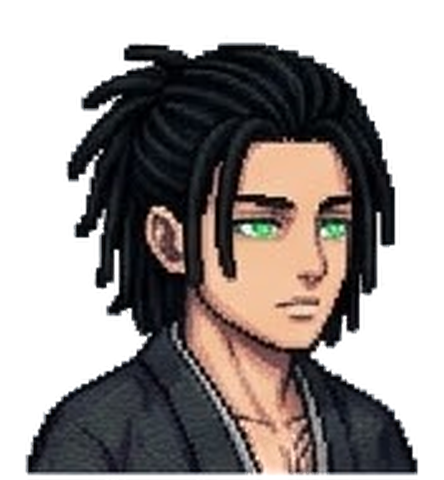
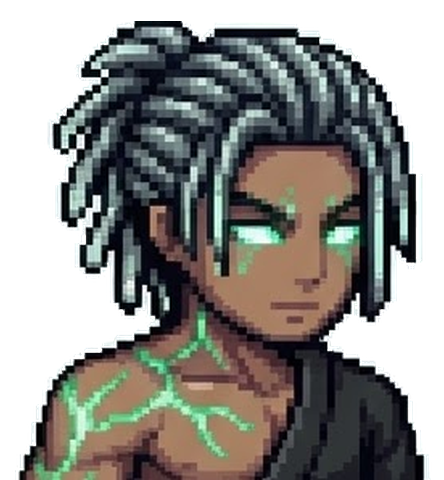
Emerald Ascension transformed form (power-up, battle moves, revert) + comic-page cutscene for the first transformation; ascended portrait
Claude-Session: https://claude.ai/code/session_01Y9XB2BHqdWdEP8tdmCfuZX

diff --git a/emerald-blood/js/hdsprites.js b/emerald-blood/js/hdsprites.js
@@ -14,7 +14,7 @@ const HD = {
   /* the art sheets load after the title screen is up (small WebP files; PNG if the phone can't read WebP) */
   lateLoad() {
     this.wantImgs = 1; const m = this.meta; if (!m || this.started) return; this.started = 1;
-    const order = ['ren', 'hood', 'npcs', 'kairo', 'veil', ...Object.keys(m).filter(k => /^c_/.test(k))].filter(k => m[k] && m[k].img);
+    const first = ['ren', 'hood', 'npcs', 'kairo', 'veil'], order = [...first, ...Object.keys(m).filter(k => !first.includes(k))].filter(k => m[k] && m[k].img);
     for (const k of order) { const base = `assets/hd/${m[k].img.replace(/\.png$/, '')}`;
       loadImg(`${base}.webp?v=${m.v}`).catch(() => loadImg(`${base}.png?v=${m.v}`)).then(i => { this.img[k] = i; }).catch(() => {}); }
   },
@@ -256,5 +256,71 @@ HD.load();
     try { for (const e of this.ents) { if (e.isPlayer || /^folk_/.test(String(e.id))) continue; const id = artId(e.id); if (Art.port[id]) Art.prefetch(id, ['neutral', 'happy', 'anger']); }
       Art.prefetch(styled(G.S && G.S.hood && Art.port.ren_hood ? 'ren_hood' : 'ren')); } catch (e) { }
     return r;
+  };
+})();
+
+/* Emerald Ascension: while it lasts Ren fights in his transformed form (silver dreads, teal aura).
+   Going in plays the power-up (gathering light → burst → aura); coming out plays the fade and the exhausted breath. */
+(function () {
+  const _pi = playerImg;
+  playerImg = function () {
+    const B = Battle.B, base = _pi();
+    if (G.mode !== 'battle' || !B || G.S.kid || !HD.on() || !HD.img.asc) return base;
+    const me = B.actors.find(a => a.isMe); if (!me) return base;
+    const on = (me.sight || 0) > 0, was = !!B.__ascOn, now = performance.now();
+    if (on !== was) { B.__ascOn = on; HD.act = on ? { name: 'transform', t0: now, end: now + 1400 } : { name: 'revert', t0: now, end: now + 1100 }; HD.__actSet = 'asc'; }
+    const useAsc = on || (HD.act && HD.act.name === 'revert' && now < HD.act.end);
+    if (!useAsc) return base;
+    const im = HD.sheet('asc', !!(base && base.__hd && base.__hd.faces !== 'right'));   // face the same way as his normal sheet
+    im.__hd.me = 1; return im;
+  };
+})();
+
+/* ---------- comic cutscenes: your manga page, shown one panel at a time (tap to go on) ---------- */
+const Comic = {
+  PAGES: {
+    // panel rectangles on the 1200x896 page: kneeling → the eyes → eruption → awakened → untouchable → the cut → the form holds
+    asc: { src: 'assets/cutscenes/comic_asc.webp', panels: [[0, 0, 600, 316], [602, 0, 1200, 316], [0, 318, 505, 642], [480, 318, 1200, 642], [0, 644, 436, 896], [440, 644, 896, 896], [900, 644, 1200, 896]],
+      fx: ['rain', 'flash', 'shake', 'glow', null, 'flash', 'glow'] }
+  },
+  async play(id) {
+    const P = this.PAGES[id]; if (!P) return;
+    const img = await loadImg(P.src + '?v=1').catch(() => null); if (!img) return;
+    const ov = document.createElement('div'); ov.style.cssText = 'position:fixed;inset:0;z-index:80;background:#05080a;touch-action:none';
+    const cv = document.createElement('canvas'), skip = document.createElement('button');
+    cv.style.cssText = 'width:100%;height:100%;display:block'; skip.textContent = 'Skip ▶▶';
+    skip.style.cssText = 'position:absolute;top:12px;right:12px;padding:8px 14px;border-radius:10px;border:2px solid #2f9a5a;background:#0b1a12;color:#cfe;font:600 14px system-ui';
+    ov.append(cv, skip); document.body.append(ov);
+    const dpr = Math.min(devicePixelRatio || 1, 2), W = cv.width = innerWidth * dpr, H = cv.height = innerHeight * dpr, x = cv.getContext('2d');
+    let i = 0, t0 = performance.now(), done = false, next = null;
+    const go = () => { if (done) return; i++; t0 = performance.now(); if (i >= P.panels.length) finish(); };
+    const finish = () => { if (done) return; done = true; ov.remove(); next && next(); };
+    ov.addEventListener('pointerdown', e => { if (e.target === skip) { finish(); return; } if (performance.now() - t0 > 350) go(); });
+    const draw = now => {
+      if (done) return;
+      const [sx, sy, ex, ey] = P.panels[i], pw = ex - sx, ph = ey - sy, k = Math.min((now - t0) / 600, 1), ease = 1 - Math.pow(1 - k, 3);
+      const fit = Math.min(W * .94 / pw, H * .9 / ph) * (1 + .04 * ((now - t0) / 4000)), dw = pw * fit, dh = ph * fit;
+      let ox = (W - dw) / 2, oy = (H - dh) / 2; const fx = P.fx[i];
+      if (fx === 'shake' && now - t0 < 900) { ox += (Math.random() - .5) * 14 * dpr; oy += (Math.random() - .5) * 10 * dpr; }
+      x.fillStyle = '#05080a'; x.fillRect(0, 0, W, H);
+      x.globalAlpha = ease; x.imageSmoothingEnabled = true; x.drawImage(img, sx, sy, pw, ph, ox, oy + (1 - ease) * 18 * dpr, dw, dh); x.globalAlpha = 1;
+      x.strokeStyle = '#e8f4ee'; x.lineWidth = 3 * dpr; x.strokeRect(ox, oy + (1 - ease) * 18 * dpr, dw, dh);
+      if (fx === 'flash' && now - t0 < 260) { x.fillStyle = `rgba(200,255,235,${.8 * (1 - (now - t0) / 260)})`; x.fillRect(0, 0, W, H); }
+      if (fx === 'glow') { const a = .12 + .08 * Math.sin(now / 300); x.fillStyle = `rgba(70,255,190,${a})`; x.globalCompositeOperation = 'lighter'; x.fillRect(ox, oy, dw, dh); x.globalCompositeOperation = 'source-over'; }
+      if (fx === 'rain') { x.strokeStyle = 'rgba(200,220,240,.25)'; x.lineWidth = 1 * dpr; for (let r = 0; r < 60; r++) { const rx = ((r * 97 + now * .6) % dw) + ox, ry = ((r * 53 + now * 1.4) % dh) + oy; x.beginPath(); x.moveTo(rx, ry); x.lineTo(rx - 3 * dpr, ry + 12 * dpr); x.stroke(); } }
+      if (now - t0 > 2600) go();
+      requestAnimationFrame(draw);
+    };
+    try { sfx(id === 'asc' ? 'art' : 'swing'); } catch (e) { }
+    requestAnimationFrame(draw);
+    return new Promise(r => { next = r; });
+  }
+};
+(function () {
+  const _ua = Battle.useArt.bind(Battle);
+  Battle.useArt = async function (a, k) {
+    // the first transformation plays the full page; after that it is just the power-up on the battlefield
+    if (k === 'sight' && a && a.isMe && G.S && !G.S.kid && !G.S.f.comicAsc) { G.S.f.comicAsc = 1; try { await Comic.play('asc'); } catch (e) { } }
+    return _ua(a, k);
   };
 })();

diff --git a/emerald-blood/index.html b/emerald-blood/index.html
@@ -336,51 +336,51 @@ h1{font-family:'Press Start 2P';font-size:clamp(18px,3.4vw,30px);color:var(--gre
   setTimeout(function(){ if(window.G&&G.mode==='boot'){ var t=document.getElementById('loadTxt'); add('Still loading after 25s — stuck at: '+(t?t.textContent:'?')+' ('+(document.getElementById('loadBar')||{style:{}}).style.width+')'); } },25000);
 })();
 </script>
-<script src="js/core.js?v=87"></script>
-<script src="js/world.js?v=87"></script>
-<script src="js/dialog.js?v=87"></script>
-<script src="js/portraits.js?v=87"></script>
-<script src="js/cine.js?v=87"></script>
-<script src="js/battle.js?v=87"></script>
-<script src="js/monsters.js?v=87"></script>
-<script src="js/realm.js?v=87"></script>
-<script src="js/story.js?v=87"></script>
-<script src="js/stones.js?v=87"></script>
-<script src="js/lore.js?v=87"></script>
-<script src="js/guild.js?v=87"></script>
-<script src="js/progress.js?v=87"></script>
-<script src="js/dungeons.js?v=87"></script>
-<script src="js/quests.js?v=87"></script>
-<script src="js/worldmap.js?v=87"></script>
-<script src="js/events.js?v=87"></script>
-<script src="js/companions.js?v=87"></script>
-<script src="js/bonds.js?v=87"></script>
-<script src="js/bloodlust.js?v=87"></script>
-<script src="js/ui.js?v=87"></script>
-<script src="js/ch1.js?v=87"></script>
-<script src="js/passives.js?v=87"></script>
-<script src="js/veil.js?v=87"></script>
-<script src="js/leaf.js?v=87"></script>
-<script src="js/tavern.js?v=87"></script>
-<script src="js/ambient.js?v=87"></script>
-<script src="js/combat2.js?v=87"></script>
-<script src="js/combat3.js?v=87"></script>
-<script src="js/combat4.js?v=87"></script>
-<script src="js/battlefx.js?v=87"></script>
-<script src="js/feats.js?v=87"></script>
-<script src="js/clash.js?v=87"></script>
-<script src="js/ch1b.js?v=87"></script>
-<script src="js/combat5.js?v=87"></script>
-<script src="js/elements.js?v=87"></script>
-<script src="js/flurry.js?v=87"></script>
-<script src="js/journey.js?v=87"></script>
-<script src="js/renown.js?v=87"></script>
-<script src="js/contracts.js?v=87"></script>
-<script src="js/raids.js?v=87"></script>
-<script src="js/ledger.js?v=87"></script>
-<script src="js/btsprites.js?v=87"></script>
-<script src="js/hdsprites.js?v=87"></script>
-<script src="js/town.js?v=87"></script>
+<script src="js/core.js?v=88"></script>
+<script src="js/world.js?v=88"></script>
+<script src="js/dialog.js?v=88"></script>
+<script src="js/portraits.js?v=88"></script>
+<script src="js/cine.js?v=88"></script>
+<script src="js/battle.js?v=88"></script>
+<script src="js/monsters.js?v=88"></script>
+<script src="js/realm.js?v=88"></script>
+<script src="js/story.js?v=88"></script>
+<script src="js/stones.js?v=88"></script>
+<script src="js/lore.js?v=88"></script>
+<script src="js/guild.js?v=88"></script>
+<script src="js/progress.js?v=88"></script>
+<script src="js/dungeons.js?v=88"></script>
+<script src="js/quests.js?v=88"></script>
+<script src="js/worldmap.js?v=88"></script>
+<script src="js/events.js?v=88"></script>
+<script src="js/companions.js?v=88"></script>
+<script src="js/bonds.js?v=88"></script>
+<script src="js/bloodlust.js?v=88"></script>
+<script src="js/ui.js?v=88"></script>
+<script src="js/ch1.js?v=88"></script>
+<script src="js/passives.js?v=88"></script>
+<script src="js/veil.js?v=88"></script>
+<script src="js/leaf.js?v=88"></script>
+<script src="js/tavern.js?v=88"></script>
+<script src="js/ambient.js?v=88"></script>
+<script src="js/combat2.js?v=88"></script>
+<script src="js/combat3.js?v=88"></script>
+<script src="js/combat4.js?v=88"></script>
+<script src="js/battlefx.js?v=88"></script>
+<script src="js/feats.js?v=88"></script>
+<script src="js/clash.js?v=88"></script>
+<script src="js/ch1b.js?v=88"></script>
+<script src="js/combat5.js?v=88"></script>
+<script src="js/elements.js?v=88"></script>
+<script src="js/flurry.js?v=88"></script>
+<script src="js/journey.js?v=88"></script>
+<script src="js/renown.js?v=88"></script>
+<script src="js/contracts.js?v=88"></script>
+<script src="js/raids.js?v=88"></script>
+<script src="js/ledger.js?v=88"></script>
+<script src="js/btsprites.js?v=88"></script>
+<script src="js/hdsprites.js?v=88"></script>
+<script src="js/town.js?v=88"></script>
 <script>if('serviceWorker' in navigator&&location.protocol==='https:')navigator.serviceWorker.register('sw.js').catch(()=>{});</script>
 </body>
 </html>

diff --git a/emerald-blood/sw.js b/emerald-blood/sw.js
@@ -1,6 +1,6 @@
 // pages & scripts: network-first (updates arrive immediately). Images: served from the phone's cache,
 // refreshed quietly in the background — so launching never waits on hundreds of image checks.
-const C = 'emerald-blood-v84', IMG = 'emerald-blood-img-2';
+const C = 'emerald-blood-v85', IMG = 'emerald-blood-img-2';
 self.addEventListener('install', e => self.skipWaiting());
 self.addEventListener('activate', e => e.waitUntil(caches.keys().then(ks => Promise.all(ks.filter(k => k !== C && k !== IMG).map(k => caches.delete(k)))).then(() => clients.claim())));
 self.addEventListener('fetch', e => {
